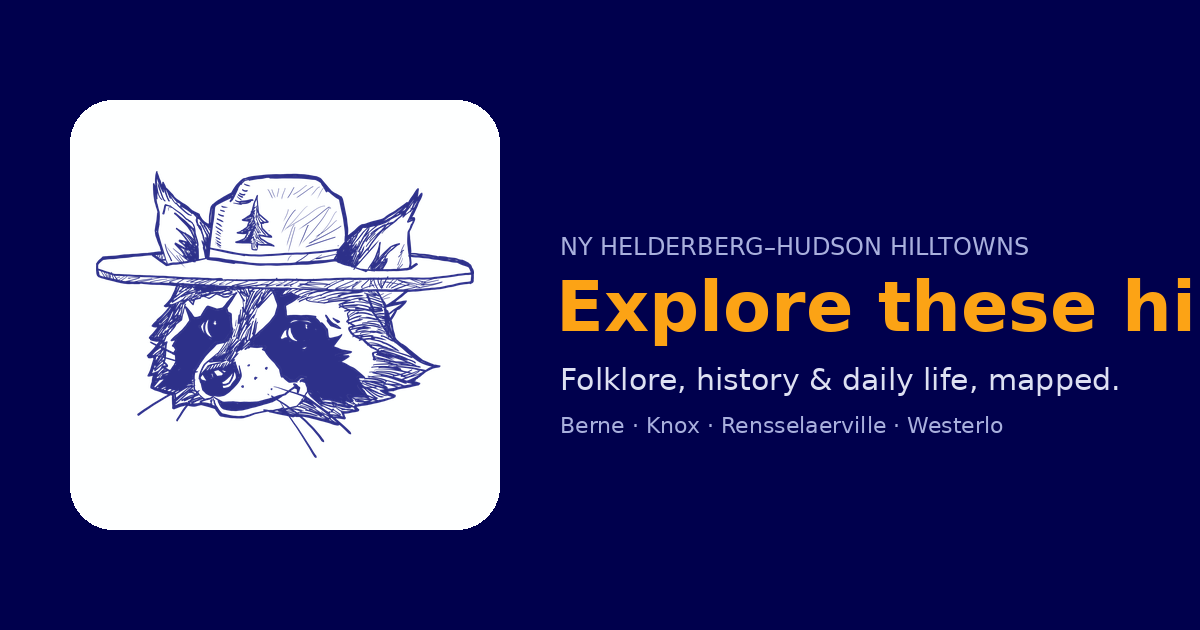
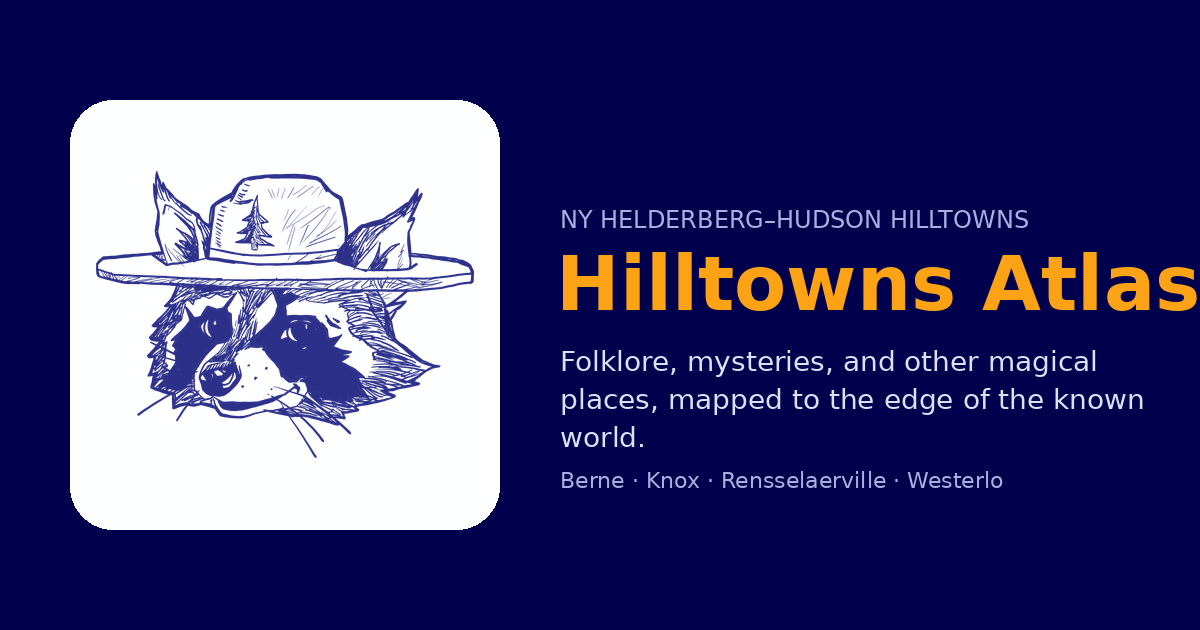
Add files via upload

Changed region(s): [[0.4625, 0.3317, 1.0, 0.7238], [0.4625, 0.754, 0.8325, 0.7841]]

diff --git a/index.template.html b/index.template.html
@@ -23,6 +23,7 @@
 :root{
   --ink:#00004d; --ink2:#000066; --ink3:#12127a;
   --paper:#feffff;
+  --parchment:#f4efe1; --parchment-line:#e3dcc8; --ink-blue:#1a1d5c;
   --lichen:#dde0f2; --birch:#a9b0dd; --faint:#7b82b8;
   --wampum:#39b7ff; --wampum-deep:#000080;
   --gold:#fca315; --gold-ink:#2b2410; --gold-dim:#c7a24a;
@@ -41,15 +42,17 @@ body{
 /* ---------- Sidebar ---------- */
 #sidebar{
   width:392px; min-width:392px; height:100%; display:flex; flex-direction:column;
-  background:linear-gradient(180deg,var(--ink) 0%, var(--ink2) 100%);
+  background:var(--parchment);
+  background-image:radial-gradient(rgba(180,168,132,.10) 0.6px, transparent 0.6px);
+  background-size:7px 7px;
   border-right:1px solid #26268f; position:relative; z-index:1000;
 }
-.masthead{padding:20px 22px 14px; border-bottom:1px solid #26268f;}
+.masthead{padding:18px 22px 12px; border-bottom:1px solid var(--parchment-line); background:transparent;}
 .eyebrow{
   font-family:'Montserrat',ui-sans-serif,system-ui,sans-serif;
   font-size:10px; letter-spacing:.22em; text-transform:uppercase; color:var(--birch);
 }
-.masthead h1{font-family:'Montserrat',ui-sans-serif,system-ui,sans-serif; font-size:21px; font-weight:800; line-height:1.2; margin-top:4px; letter-spacing:.05em; text-transform:uppercase; color:var(--gold); display:flex; align-items:center; gap:10px;}
+.masthead h1{font-family:'Montserrat',ui-sans-serif,system-ui,sans-serif; font-size:21px; font-weight:800; line-height:1.2; margin-top:0; letter-spacing:.05em; text-transform:uppercase; color:var(--ink-blue); display:flex; align-items:center; gap:10px;}
 .masthead h1 .mast-logo{width:38px; height:38px; flex:none; border-radius:8px;}
 .planrow{display:flex; align-items:center; gap:8px; margin-top:9px;
   font-family:'Montserrat',ui-sans-serif,system-ui,sans-serif; font-size:11px; color:var(--birch);}
@@ -57,7 +60,12 @@ body{
   color:var(--lichen); padding:5px 8px; font-family:inherit; font-size:12px; color-scheme:dark;}
 .planrow input[type=date].active{border-color:var(--wampum);}
 .planrow .btn{padding:4px 9px;}
-.epigraph{font-size:12px; font-style:italic; color:var(--birch); line-height:1.5; margin:13px 1px 3px;}
+.epigraph{font-size:12px; font-style:italic; color:#6b6552; line-height:1.5; margin:11px 1px 3px;}
+.navfoot{display:flex; align-items:center; justify-content:space-between; margin-top:11px; padding-top:10px; border-top:1px solid #b8d4ec;}
+.navfoot .iglink{font-family:'Montserrat',ui-sans-serif,system-ui,sans-serif; font-size:11px; letter-spacing:.1em; color:var(--gold); text-decoration:none;}
+.navfoot .iglink:hover{color:var(--ink-blue); text-decoration:underline;}
+.navfoot #btnAbout{padding:4px 10px; font-size:11px; background:#eef4fb; border-color:#a9c6e0; color:#2b4a63;}
+.navfoot #btnAbout:hover{border-color:var(--gold);}
 .secondary-nav{flex:none; padding:12px 22px 14px; border-top:1px solid #b8d4ec; background:#dbeaf6;}
 .secondary-nav .planrow{margin-top:0; margin-bottom:9px; color:#2b4a63;}
 .secondary-nav input[type=date]{flex:1; background:#fff; border:1px solid #a9c6e0; border-radius:7px;
@@ -70,9 +78,10 @@ body{
 .superhead .iglink{color:var(--gold); text-decoration:none; letter-spacing:.14em;}
 .superhead .iglink:hover{color:var(--paper); text-decoration:underline;}
 
-.controls{padding:14px 22px 14px; border-bottom:1px solid #26268f; background:var(--paper);}
+.controls{padding:12px 22px 12px; border-bottom:1px solid var(--parchment-line); background:transparent;}
 .controls .epigraph{color:#4a4f7a;}
 .controls #filtersToggle{background:#eef0fb; border-color:#c9cdec; color:#2b2f57;}
+.controls.fcollapsed .cats, .controls.fcollapsed .epigraph{display:none;}
 .controls #filtersToggle:hover{border-color:var(--gold);}
 .controls input[type=text], .secondary-nav input[type=text]{
   width:100%; background:#fff; border:1px solid #a9c6e0; color:#1c3348;
@@ -80,10 +89,10 @@ body{
 }
 .controls input[type=text]::placeholder, .secondary-nav input[type=text]::placeholder{color:#7089a0;}
 .controls input[type=text]:focus, .secondary-nav input[type=text]:focus{border-color:var(--gold);}
-.cats{display:flex; flex-direction:column; gap:2px; margin-top:10px;}
+.cats{display:flex; flex-direction:column; gap:0; margin-top:6px;}
 .catbox{display:flex; align-items:center; gap:10px; cursor:pointer; user-select:none;
-  font-family:'Montserrat',ui-sans-serif,system-ui,sans-serif; font-size:12.5px; color:#2b2f57;
-  padding:6px 4px; border:none; border-radius:0; background:transparent; transition:color .15s;}
+  font-family:'Montserrat',ui-sans-serif,system-ui,sans-serif; font-size:12.5px; color:var(--ink-blue);
+  padding:2px 4px; border:none; border-radius:0; background:transparent; transition:color .15s;}
 .catbox:hover{color:#000; background:transparent;}
 .catbox input{accent-color:var(--gold); width:15px; height:15px; flex:none;}
 .catname{flex:1;}
@@ -92,20 +101,20 @@ body{
 .catmark.disc{background:transparent; font-size:19px;}
 .catmark.poi{color:var(--wampum); font-size:18px;}
 
-#listwrap{flex:1; overflow-y:auto; background:var(--paper); scrollbar-width:thin; scrollbar-color:#c9cdec transparent;}
+#listwrap{flex:1; overflow-y:auto; background:transparent; scrollbar-width:thin; scrollbar-color:#c9bfa0 transparent;}
 .grouphead{
-  position:sticky; top:0; background:var(--paper); z-index:2;
+  position:sticky; top:0; background:var(--parchment); z-index:2;
   padding:9px 22px 7px; font-family:'Montserrat',ui-sans-serif,system-ui,sans-serif;
   font-size:10px; letter-spacing:.2em; text-transform:uppercase; color:var(--gold-dim);
-  border-bottom:1px solid #e2e4f2;
+  border-bottom:1px solid var(--parchment-line);
 }
-.card{padding:12px 22px 13px; border-bottom:1px solid #e8eaf4; cursor:pointer; transition:background .12s;}
-.card:hover{background:#f3f5fc;}
-.card.active{background:#fff6e6; box-shadow:inset 3px 0 0 var(--gold);}
-.card h3{font-size:13.5px; font-weight:600; line-height:1.3; color:#1a1d3a; font-family:'Montserrat',ui-sans-serif,system-ui,sans-serif;}
+.card{padding:12px 22px 13px; border-bottom:1px solid var(--parchment-line); cursor:pointer; transition:background .12s;}
+.card:hover{background:rgba(255,255,255,.45);}
+.card.active{background:rgba(252,163,21,.14); box-shadow:inset 3px 0 0 var(--gold);}
+.card h3{font-size:13.5px; font-weight:600; line-height:1.3; color:var(--ink-blue); font-family:'Montserrat',ui-sans-serif,system-ui,sans-serif;}
 .card .meta{
   display:flex; align-items:baseline; gap:8px; margin-top:4px; flex-wrap:wrap;
-  font-family:'Montserrat',ui-sans-serif,system-ui,sans-serif; font-size:10.5px; color:#6b7194; letter-spacing:.03em;
+  font-family:'Montserrat',ui-sans-serif,system-ui,sans-serif; font-size:10.5px; color:#7a7460; letter-spacing:.03em;
 }
 .card .meta .nat{color:#8a6d1f;}
 .chip{
@@ -169,13 +178,10 @@ a.weblink:hover{text-decoration:underline;}
 .likebtn:hover{border-color:#e0526e;}
 .likebtn:active{transform:scale(1.25);}
 .likebtn .lc{color:var(--birch); margin-left:3px; font-size:11px;}
-#btnAbout{position:absolute; top:14px; right:14px; width:26px; height:26px; padding:0;
-  border-radius:50%; font-size:13px; line-height:1;}
 .masthead{position:relative;}
-#filtersToggle{display:none; width:100%; margin-top:8px;}
+#filtersToggle{display:block; width:100%; margin-top:0; margin-bottom:2px;}
 @media (max-width:760px){
   #filtersToggle{display:block;}
-  .controls.fcollapsed .cats, .controls.fcollapsed .epigraph{display:none;}
 }
 .tag{display:inline-block; padding:2px 9px; margin:0 4px 4px 0; border-radius:11px;
   border:1px solid #2e2ea8; color:var(--birch); font-size:9.5px; letter-spacing:.05em;
@@ -249,6 +255,15 @@ a.weblink:hover{text-decoration:underline;}
     background:rgba(0,0,77,.9); box-shadow:0 2px 8px rgba(0,0,0,.35);}
   #layers.collapsed{display:none;}
   .mapbar{top:auto; bottom:12px;}
+
+  /* Detail & About break out to full-screen on mobile so the scroll area is
+     tall enough to reach bottom links (were confined to the 44vh sidebar,
+     which fought touch-scroll and snapped back on release). */
+  #detail, #about{position:fixed; inset:0; z-index:3000; border-right:none;}
+  #detail .detail-body, #about .detail-body{
+    -webkit-overflow-scrolling:touch; overscroll-behavior:contain;
+    padding-bottom:64px; max-height:none;
+  }
 }
 @media (prefers-reduced-motion: reduce){
   #detail{transition:none;} .card,.catbox,.btn{transition:none;}
@@ -259,13 +274,11 @@ a.weblink:hover{text-decoration:underline;}
 <div class="app">
   <div id="sidebar">
     <div class="masthead">
-      <button class="btn" id="btnAbout" title="About this atlas">&#9432;</button>
-      <div class="superhead"><a href="https://instagram.com/NYHilltowners" target="_blank" rel="noopener" class="iglink">@NYHilltowners</a></div>
       <h1><img src="images/favicon.svg" alt="" class="mast-logo">Hilltowns Atlas</h1>
     </div>
 
     <div class="controls">
-      <button class="btn" id="filtersToggle">Filters &#9662;</button>
+      <button class="btn" id="filtersToggle" title="Collapse categories to browse the map">Hide categories &#9652;</button>
       <div class="cats" id="catsMain"></div>
       <div class="epigraph">People have been sharing stories in these hills since long before you were here, and will be long after you&#8217;re gone&#8230;</div>
       <div class="cats" id="catsStory"></div>
@@ -280,6 +293,10 @@ a.weblink:hover{text-decoration:underline;}
         <button class="btn" id="planClear" title="Back to today" style="display:none;">&times;</button>
       </div>
       <input type="text" id="q" placeholder="Search…" autocomplete="off">
+      <div class="navfoot">
+        <a href="https://instagram.com/NYHilltowners" target="_blank" rel="noopener" class="iglink">@NYHilltowners</a>
+        <button class="btn" id="btnAbout" title="About this atlas">&#9432; About</button>
+      </div>
     </div>
 
     <div id="detail">
@@ -1049,11 +1066,12 @@ _pc.onclick = function(){
 var _fc = document.getElementById('filtersToggle');
 if(window.matchMedia('(max-width:760px)').matches){
   document.querySelector('.controls').classList.add('fcollapsed');
+  _fc.innerHTML = 'Show categories &#9662;';
 }
 _fc.onclick = function(){
   var c = document.querySelector('.controls');
   c.classList.toggle('fcollapsed');
-  _fc.innerHTML = c.classList.contains('fcollapsed') ? 'Filters &#9662;' : 'Filters &#9652;';
+  _fc.innerHTML = c.classList.contains('fcollapsed') ? 'Show categories &#9662;' : 'Hide categories &#9652;';
 };
 
 function catMark(c){
